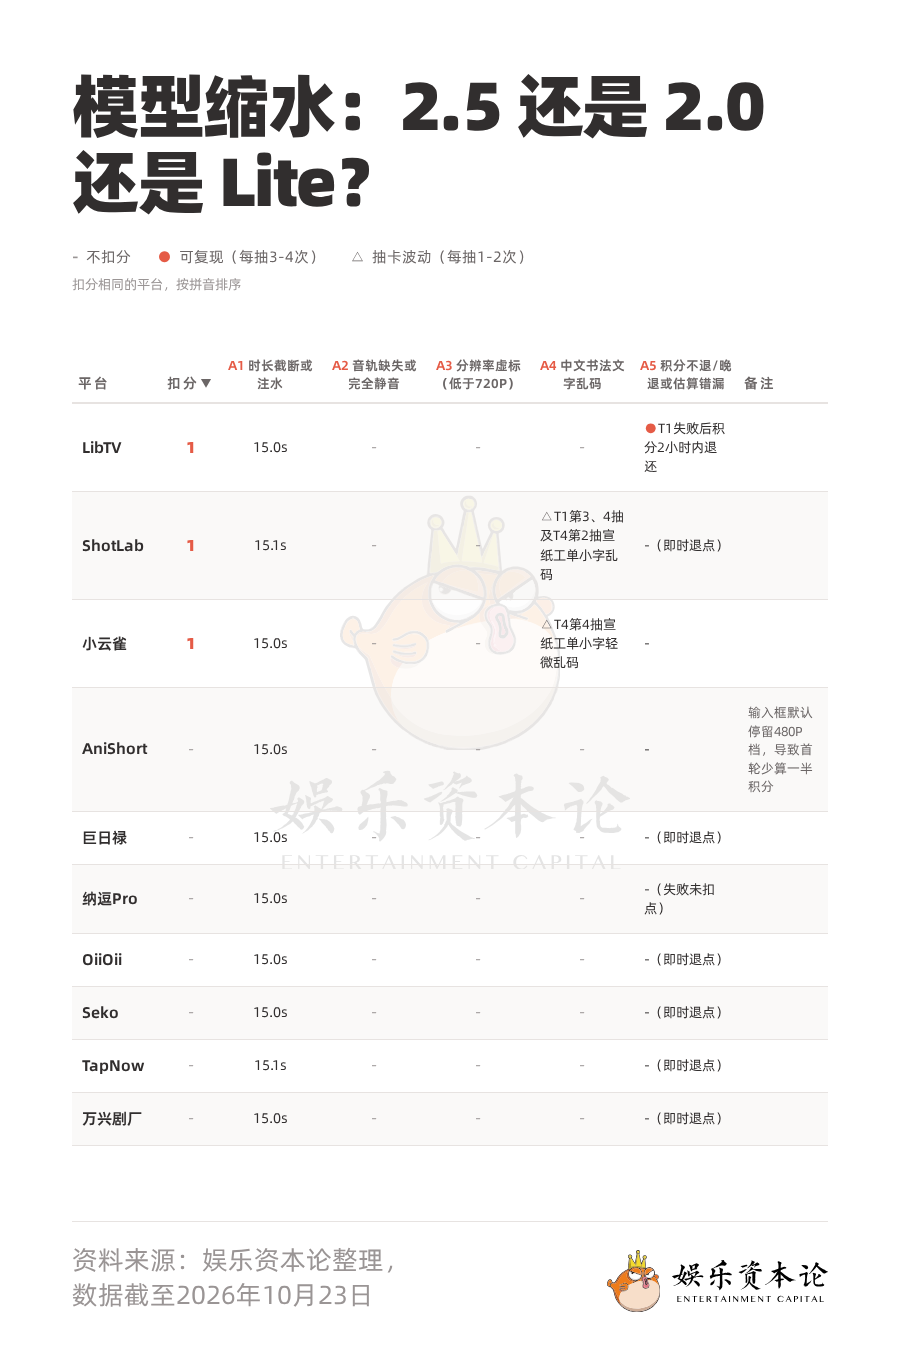
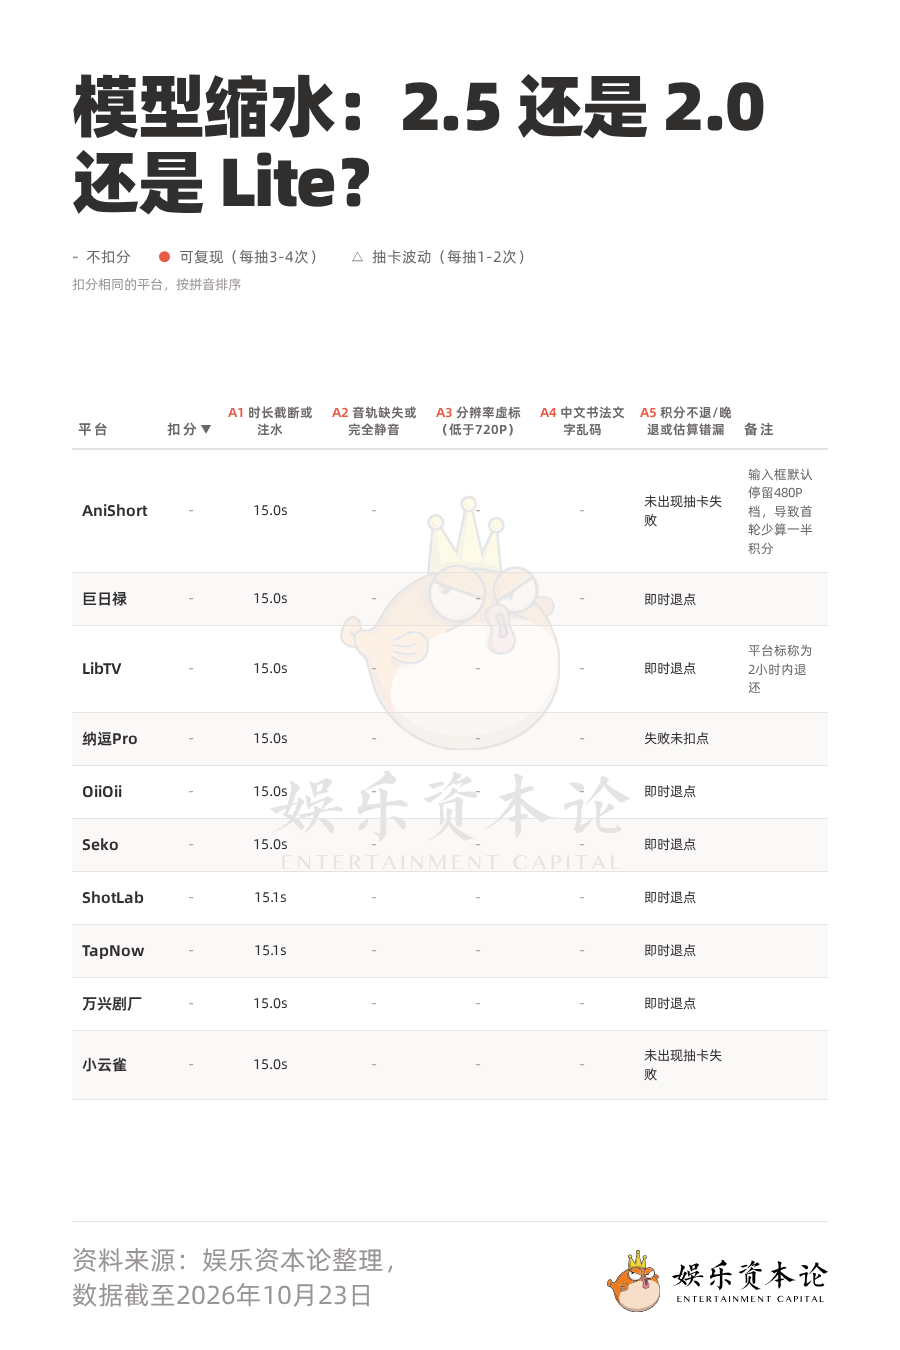
1026-drama-sankey img4修订3(数据修订,用户五条指示): ①所有平台均不扣分 ②LibTV A5改即时退点+备注'平台标称为2小时内退还' ③删除ShotLab/小云雀A4乱码表述(排查后为幻觉, A4全'-') ④A5括号内容拿出不写'-'(即时退点/失败未扣点), 小云雀与AniShort改'未出现抽卡失败' ⑤平台恢复纯拼音序A<J<L<N<O<Se<Sh<T<W<X; 去分组线与●△符号span, 图例/表头/脚注/列宽规则零改动; 重渲rc=0 yzCheck compliant+无溢出+DOM 80格逐字零差异+VLM表体2x逐行一致+整图版式齐全无tofu+

diff --git a/1026-drama-sankey/deliverables-v1.0/img4-styled.html b/1026-drama-sankey/deliverables-v1.0/img4-styled.html
@@ -86,64 +86,63 @@
       </tr></thead>
       <tbody>
         <tr>
-          <td class="pname">LibTV</td><td class="ded">1</td>
-          <td class="c">15.0s</td><td class="c na">-</td><td class="c na">-</td><td class="c na">-</td>
-          <td class="cell-a5"><span class="sy-b">●</span>T1失败后积分2小时内退还</td>
-          <td class="note"></td>
-        </tr>
-        <tr>
-          <td class="pname">ShotLab</td><td class="ded">1</td>
-          <td class="c">15.1s</td><td class="c na">-</td><td class="c na">-</td>
-          <td class="cell-a4"><span class="sy-t">△</span>T1第3、4抽及T4第2抽宣纸工单小字乱码</td>
-          <td class="cell-a5">-（即时退点）</td>
-          <td class="note"></td>
-        </tr>
-        <tr>
-          <td class="pname grp-end">小云雀</td><td class="ded grp-end">1</td>
-          <td class="c grp-end">15.0s</td><td class="c na grp-end">-</td><td class="c na grp-end">-</td>
-          <td class="cell-a4 grp-end"><span class="sy-t">△</span>T4第4抽宣纸工单小字轻微乱码</td>
-          <td class="cell-a5 grp-end">-</td>
-          <td class="note grp-end"></td>
-        </tr>
-        <tr>
           <td class="pname">AniShort</td><td class="ded none">-</td>
-          <td class="c">15.0s</td><td class="c na">-</td><td class="c na">-</td><td class="c na">-</td><td class="cell-a5">-</td>
+          <td class="c">15.0s</td><td class="c na">-</td><td class="c na">-</td><td class="c na">-</td>
+          <td class="cell-a5">未出现抽卡失败</td>
           <td class="note">输入框默认停留480P档，导致首轮少算一半积分</td>
         </tr>
         <tr>
           <td class="pname">巨日禄</td><td class="ded none">-</td>
           <td class="c">15.0s</td><td class="c na">-</td><td class="c na">-</td><td class="c na">-</td>
-          <td class="cell-a5">-（即时退点）</td>
+          <td class="cell-a5">即时退点</td>
           <td class="note"></td>
+        </tr>
+        <tr>
+          <td class="pname">LibTV</td><td class="ded none">-</td>
+          <td class="c">15.0s</td><td class="c na">-</td><td class="c na">-</td><td class="c na">-</td>
+          <td class="cell-a5">即时退点</td>
+          <td class="note">平台标称为2小时内退还</td>
         </tr>
         <tr>
           <td class="pname">纳逗Pro</td><td class="ded none">-</td>
           <td class="c">15.0s</td><td class="c na">-</td><td class="c na">-</td><td class="c na">-</td>
-          <td class="cell-a5">-（失败未扣点）</td>
+          <td class="cell-a5">失败未扣点</td>
           <td class="note"></td>
         </tr>
         <tr>
           <td class="pname">OiiOii</td><td class="ded none">-</td>
           <td class="c">15.0s</td><td class="c na">-</td><td class="c na">-</td><td class="c na">-</td>
-          <td class="cell-a5">-（即时退点）</td>
+          <td class="cell-a5">即时退点</td>
           <td class="note"></td>
         </tr>
         <tr>
           <td class="pname">Seko</td><td class="ded none">-</td>
           <td class="c">15.0s</td><td class="c na">-</td><td class="c na">-</td><td class="c na">-</td>
-          <td class="cell-a5">-（即时退点）</td>
+          <td class="cell-a5">即时退点</td>
+          <td class="note"></td>
+        </tr>
+        <tr>
+          <td class="pname">ShotLab</td><td class="ded none">-</td>
+          <td class="c">15.1s</td><td class="c na">-</td><td class="c na">-</td><td class="c na">-</td>
+          <td class="cell-a5">即时退点</td>
           <td class="note"></td>
         </tr>
         <tr>
           <td class="pname">TapNow</td><td class="ded none">-</td>
           <td class="c">15.1s</td><td class="c na">-</td><td class="c na">-</td><td class="c na">-</td>
-          <td class="cell-a5">-（即时退点）</td>
+          <td class="cell-a5">即时退点</td>
           <td class="note"></td>
         </tr>
         <tr>
           <td class="pname">万兴剧厂</td><td class="ded none">-</td>
           <td class="c">15.0s</td><td class="c na">-</td><td class="c na">-</td><td class="c na">-</td>
-          <td class="cell-a5">-（即时退点）</td>
+          <td class="cell-a5">即时退点</td>
+          <td class="note"></td>
+        </tr>
+        <tr>
+          <td class="pname">小云雀</td><td class="ded none">-</td>
+          <td class="c">15.0s</td><td class="c na">-</td><td class="c na">-</td><td class="c na">-</td>
+          <td class="cell-a5">未出现抽卡失败</td>
           <td class="note"></td>
         </tr>
       </tbody>

diff --git a/1026-drama-sankey/deliverables-v1.0/README.md b/1026-drama-sankey/deliverables-v1.0/README.md
@@ -37,18 +37,18 @@
 - 表格标题【剧情介绍】，脚注【资料来源：娱乐资本论整理】+ 横版 Logo；
 - 行卡片4×115px、留白节奏均匀（末行距页脚仅页脚自身 margin）。
 
-### img4 · 模型缩水：2.5 还是 2.0 还是 Lite？ 扣分对比表
+### img4 · 模型缩水：2.5 还是 2.0 还是 Lite？ 扣分对比表（数据修订版）
 
-将《模型缩水》平台扣分表做成 8 列对比表（`img4-styled.png`，900×1350，应用户要求**逐字引用、零发挥**）：
+将《模型缩水》平台扣分表做成 8 列对比表（`img4-styled.png`，900×1350，应用户要求**逐字引用、零发挥**；2026-10-27 修订3后数据口径见下）：
 
 - **结构**：表头八列 **平台 | 扣分▼ | A1–A5 | 备注**，其中 A1–A5 五列为**横排表头**（窄列内自动换行、居中，完整列名：A1 时长截断或注水 / A2 音轨缺失或完全静音 / A3 分辨率虚标（低于720P）/ A4 中文书法文字乱码 / A5 积分不退/晚退或估算错漏）；
-- **排序**：扣分相同按拼音排序——扣分1组 LibTV&lt;ShotLab&lt;小云雀（L&lt;S&lt;X），不扣分组 AniShort&lt;巨日禄&lt;纳逗Pro&lt;OiiOii&lt;Seko&lt;TapNow&lt;万兴剧厂（A&lt;J&lt;N&lt;O&lt;S&lt;T&lt;W），与用户输入行序一致，组间以加重分隔线标识；
+- **排序**：平台按拼音排序——AniShort&lt;巨日禄&lt;LibTV&lt;纳逗Pro&lt;OiiOii&lt;Seko&lt;ShotLab&lt;TapNow&lt;万兴剧厂&lt;小云雀（A&lt;J&lt;L&lt;N&lt;O&lt;Se&lt;Sh&lt;T&lt;W&lt;X），与用户修订指示一致（所有平台均不扣分，恢复纯拼音序，无分组）；
 - **图例与说明**（逐字）：“- 不扣分 ● 可复现（每抽3-4次）△ 抽卡波动（每抽1-2次）” + “扣分相同的平台，按拼音排序”；
-- **内容口径**：全部单元格逐字引用（含 ●/△/（）/、 等符号、15.0s/15.1s、480P、备注全文）；
+- **内容口径（修订3后）**：所有平台均不扣分（扣分列全"-"）；A4 全列"-"（原 ShotLab/小云雀两处乱码表述排查后为幻觉、已删除）；A5 括号内容拿出不写"-"（即时退点/失败未扣点），小云雀与 AniShort 为"未出现抽卡失败"，LibTV 为"即时退点"；备注仅 AniShort（480P档首轮少算一半积分）与 LibTV（平台标称为2小时内退还）有内容；A1 时长 15.0s（ShotLab/TapNow 为 15.1s）；
 - 页脚（逐字）：“资料来源：娱乐资本论整理，数据截至2026年10月23日”；
 - **技术要点**：A1–A5 长列名在 756px 宽度下以 `table-layout:fixed` + colgroup 定宽实现横排换行；表格自然高度在内容区垂直居中（不用 height:100% 拉伸）。
 - **列宽规则（用户长期要求，后续图沿用）**：**A1–A5 等宽 104px、备注列稍窄 90px**（平台 92 / 扣分 54 不变，总宽 756 不变），不介意单元格高度不齐（窄列多行换行属预期）。
-- **修订记录**（2026-10-27）：①应用户要求，A1–A5 表头由竖排改为横排（列宽同步重排），表头文字逐字不变；②应用户要求，A1–A5 五列等宽 104px、备注稍窄 90px；表体数据/图例/排序/脚注零改动。重跑全套验证（yzCheck compliant、无溢出、表头8格+表体80格逐字零差异、validate.py 40/40）。
+- **修订记录**（2026-10-27）：①表头由竖排改为横排；②A1–A5 等宽 104px、备注稍窄 90px；③数据修订（用户五条指示）：所有平台均不扣分、LibTV A5=即时退点+备注平台标称为2小时内退还、删两处乱码幻觉表述、A5 括号内容拿出（小云雀/AniShort=未出现抽卡失败）、恢复纯拼音序。每轮重跑全套验证（yzCheck compliant、无溢出、DOM 80 格逐字零差异、validate.py 40/40）。
 
 ## 二、目录结构
 

diff --git a/1026-drama-sankey/worklog.md b/1026-drama-sankey/worklog.md
@@ -162,3 +162,24 @@ v1.0（img1+img2+img3+img4）完成。
 ### 4. 交付
 - 更新 img4-styled.html/png、browser-validation-img4.json、source-data.csv、validation.json、README（新增"列宽规则"长期要求条目）。
 - 单次 commit + push。
+
+---
+## img4 修订3 · 数据修订（用户五条指示，2026-10-27）
+
+### 1. 任务
+用户 IM 指示五条数据修改：①所有平台均不扣分；②LibTV A5 改"即时退点"、备注写"平台标称为2小时内退还"；③删除两个平台文字错误表述（ShotLab/小云雀 A4 乱码，排查后为幻觉）；④A5 括号内容拿出不写"-"（-（即时退点）→即时退点、-（失败未扣点）→失败未扣点），小云雀与 AniShort 改"未出现抽卡失败"；⑤平台恢复按拼音排序。
+
+### 2. 修改
+- tbody 10 行重写：纯拼音序 AniShort<巨日禄<LibTV<纳逗Pro<OiiOii<Seko<ShotLab<TapNow<万兴剧厂<小云雀（A<J<L<N<O<Se<Sh<T<W<X）；扣分列全"-"；A4 全"-"；A5/A1/备注按上述口径；去除 grp-end 分组线与 ●△ 符号 span（表中已无对应符号）。
+- 图例行、排序说明、表头、脚注、列宽规则（92/54/104×5/90）零改动。
+
+### 3. 验证
+- render.mjs a：rc=0，yzCheck compliant；无溢出（scrollH=1350，gapToFooter 121px，未触发 compact）。
+- DOM 80 格与用户五条修订后的基准程序化逐格比对：**0 差异**；列宽 [92,54,104×5,90] 保持；全表零横向溢出。
+- PIL：900×1350、2551 色、着墨 7.2%。
+- VLM 表体 2x 逐行转写 10 行与修订指示完全一致（扣分全-/A4 全-/行序正确）；整图版式要素齐全、垂直居中无缺陷；无 tofu。
+- source-data.csv 追加 img4,4,13→14 修订溯源行 → 149 行；validate.py 目录级 40/40。
+
+### 4. 交付
+- 更新 img4-styled.html/png、browser-validation-img4.json、source-data.csv、validation.json、README。
+- 单次 commit + push。
